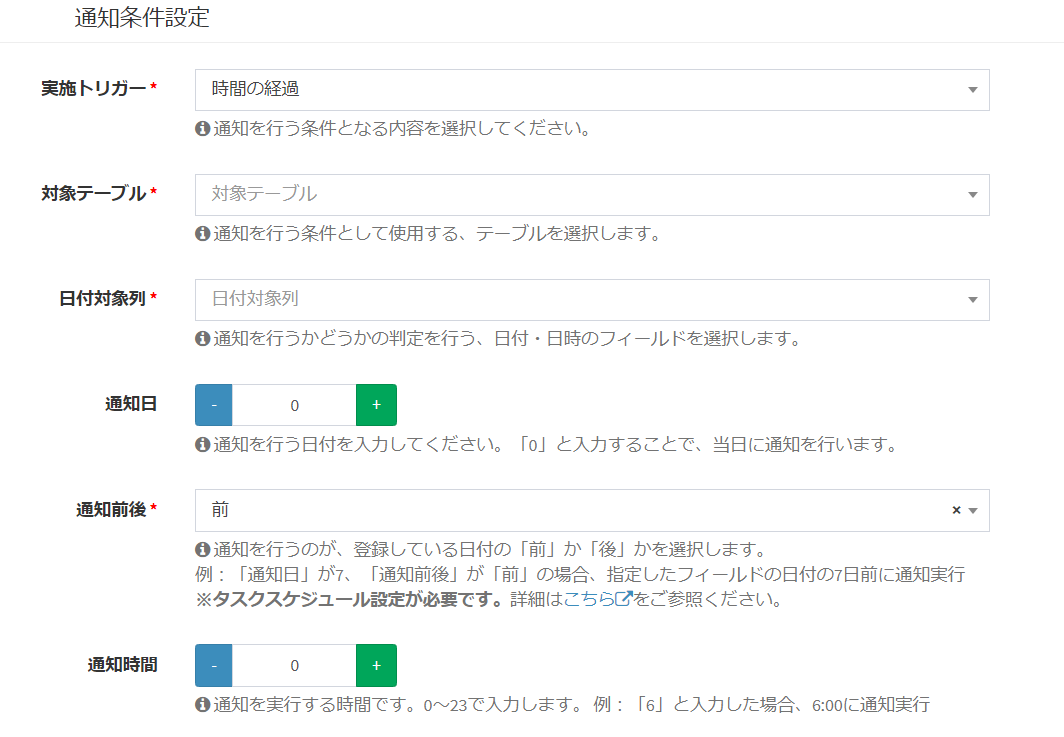
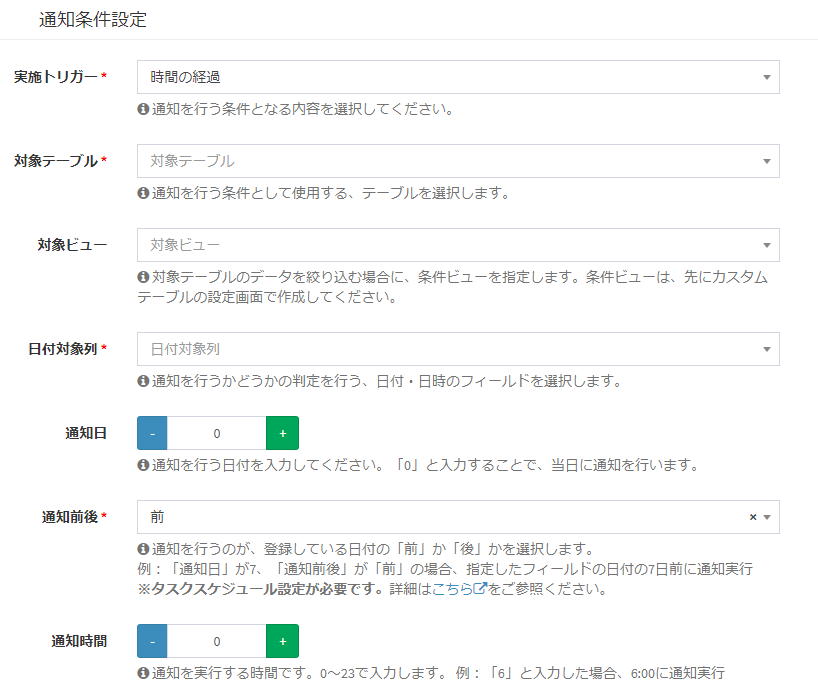
update notify

diff --git a/docs/ja/notify.md b/docs/ja/notify.md
@@ -15,6 +15,7 @@
 - データの新規作成時
 - データの更新時
 - データに対し、コメントが実施された時
+- データに対し、ファイルが添付された時
 - データが共有された時  
 更新情報をいち早くキャッチしたい場合にご利用ください。  
 ※自分自身には通知は行われません。
@@ -72,10 +73,12 @@
 #### 対象テーブル
 通知を行う条件となるテーブル、ならびに通知対象のテーブルを選択します。
 
+#### 対象ビュー
+通知を行う条件を絞る為に、[条件ビュー](/ja/view.md?id=条件ビュー)を選択します。
 
 ### 通知条件設定(時間の経過)
 
-#### 日付の経過
+#### 日付対象列
 通知の判定を行う対象の、カスタム列を選択します。  
 選択できるカスタム列の種類は、「日付」「日時」です。  
 ※選択したカスタムテーブルが、「日付」「日時」を含んでいない場合、選択肢は表示されません。
